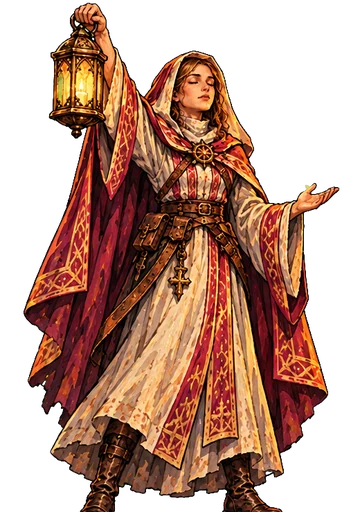
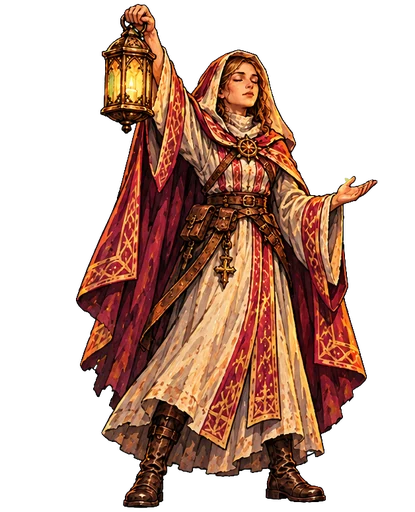
Hearthguard: frame-by-frame attacks for Rogue, Mage and Cleric; new Gargoyle dive
Every hero's attacks now animate in frames, picked by card:
- Rogue stabs, or throws with Fan of Knives, Crimson Fan and Poisoned Dart.
- Mage hurls single-target spells and invokes spells that hit every enemy.
- Cleric smites with her lantern, or calls down judgment (Judgment,
  Smite Evil, Consecrate).

Frames are scaled to match each hero's other poses and aligned on the
feet. The Gargoyle's attack is redrawn so both wings show.

diff --git a/Hearthguard/game.js b/Hearthguard/game.js
@@ -1219,12 +1219,30 @@ const POSE_MS = { attack: 450, cast: 600 };
 // played in order when an attack lands, in place of the single attack pose. Each frame holds
 // for MOVE_MS: anticipation, impact, follow-through. The card's effect waits for the impact
 // frame (MOVE_HIT ms), so the slash or bash lands on the hit.
-const HERO_MOVES = { knight: { slash: ['slash1', 'slash2', 'slash3'], bash: ['bash1', 'bash2', 'bash3'] } };
+const HERO_MOVES = {
+  knight: { slash: ['slash1', 'slash2', 'slash3'], bash: ['bash1', 'bash2', 'bash3'] },
+  rogue: { stab: ['stab1', 'stab2', 'stab3'], throw: ['throw1', 'throw2', 'throw3'] },
+  mage: { hurl: ['hurl1', 'hurl2', 'hurl3'], invoke: ['invoke1', 'invoke2', 'invoke3'] },
+  // Judgment has two frames; the second holds through the follow-through beat.
+  cleric: { smite: ['smite1', 'smite2', 'smite3'], judgment: ['judg1', 'judg2', 'judg2'] },
+};
 const MOVE_MS = [110, 150, 220];
 const MOVE_HIT = MOVE_MS[0];
-// The Knight's shield attacks bash; his other attacks slash.
+// Which motion an attack plays. Knight: shield attacks bash, the rest slash. Rogue: thrown
+// cards throw, the rest stab. Mage: spells at every enemy invoke, the rest hurl. Cleric: the
+// big holy strikes call down judgment, the rest smite.
 const SHIELD_ATTACKS = new Set(['k_bash', 'k_slam', 'k_bulwark', 'k_charge', 'k_parry', 'k_toss', 'k_titan']);
-const motionFor = (cls, id) => cls === 'knight' ? (SHIELD_ATTACKS.has(id) ? 'bash' : 'slash') : null;
+const JUDGMENTS = new Set(['c_judge', 'c_smiteevil', 'c_consecrate']);
+function motionFor(cls, id) {
+  const c = CARDS[id];
+  switch (cls) {
+    case 'knight': return SHIELD_ATTACKS.has(id) ? 'bash' : 'slash';
+    case 'rogue': return ROGUE_THROWN.test(c?.name || '') ? 'throw' : 'stab';
+    case 'mage': return c?.tgt === 'all' || c?.tgt === 'random' ? 'invoke' : 'hurl';
+    case 'cleric': return JUDGMENTS.has(id) ? 'judgment' : 'smite';
+  }
+  return null;
+}
 const heroPoses = cls => [...POSES, ...Object.values(HERO_MOVES[cls] || {}).flat()];
 
 function heroEl(pid) {

diff --git a/Hearthguard/CLAUDE.md b/Hearthguard/CLAUDE.md
@@ -85,7 +85,13 @@ No build step and no dependencies to install. Plain ES modules served as static 
   - **Redrawn poses:** a pose redrawn as its own image (like `heroes-knight-attack.png`, because the lunge didn't fit a cell) is scaled to the height of the cell it replaces. All poses then go on one shared canvas aligned on the feet: same lowest pixel, and the same middle of the feet. The hero stays planted and a wide pose just reaches further.
   - **Attack motions:** classes in `HERO_MOVES` play a three-frame motion on attacks instead of the single attack pose: anticipation, impact, follow-through, held for `MOVE_MS`.
     - The card's effect waits until the impact frame (`MOVE_HIT`).
-    - `motionFor` picks the motion. The Knight bashes with `SHIELD_ATTACKS` (Shield Bash, Body Slam, Bulwark, Crushing Charge, Parry, Shield Toss, Titan's Wrath) and slashes with everything else.
+    - `motionFor` picks the motion:
+      - **Knight:** bashes with `SHIELD_ATTACKS` (Shield Bash, Body Slam, Bulwark, Crushing Charge, Parry, Shield Toss, Titan's Wrath) and slashes with everything else.
+      - **Rogue:** throws with `ROGUE_THROWN` cards and stabs with the rest.
+      - **Mage:** invokes with spells that hit every or random enemies, and hurls the rest.
+      - **Cleric:** `JUDGMENTS` (Judgment, Consecrate, Smite Evil) call down judgment (two frames, the second held), and the rest smite. Her smite frames came from a separate 3×1 strip (scaled 1.05×) and her judgment frames from the 3×2 sheet (1.45×). The compositor takes several `--frames` sheets, each with its own grid, names (`-` skips a cell) and scale.
+    - Frames sheets are 3×2 and cut with `bridged_cells`, which repairs a blade or flame poking across a gutter and drops stray slivers. The Rogue and Mage frames were scaled 1.45× to match their sheets; the Knight's were 1.38×. Check the scale against a matching pose before trusting a number.
+    - **Prompts:** ask for one hand to hold the prop in every frame, and no kneeling or falling in attacks. The first Cleric sheet swapped her lantern between hands and knelt at the end of an attack.
     - His frames came from a 3×2 sheet (`assets/heroes-knights-frames.png`) and were scaled to match his other poses **by head height**. Lunges vary in depth, so matching on overall height made him 20% too big.
   - **Sizing:** hero pose images are sized by height (`.hero .art.posed img.pose`), not fitted into the box, so a wide canvas doesn't shrink the hero. The overhang ignores taps.
 - **Poses in combat:** `setPose` picks down, then a pose flashed by a card that just landed (`poseFlash`: attack for attacks, cast for everything else), then cast while casting, then idle. The `cast` event carries the card `id`, target `t` and `atk`, for poses and effects.
